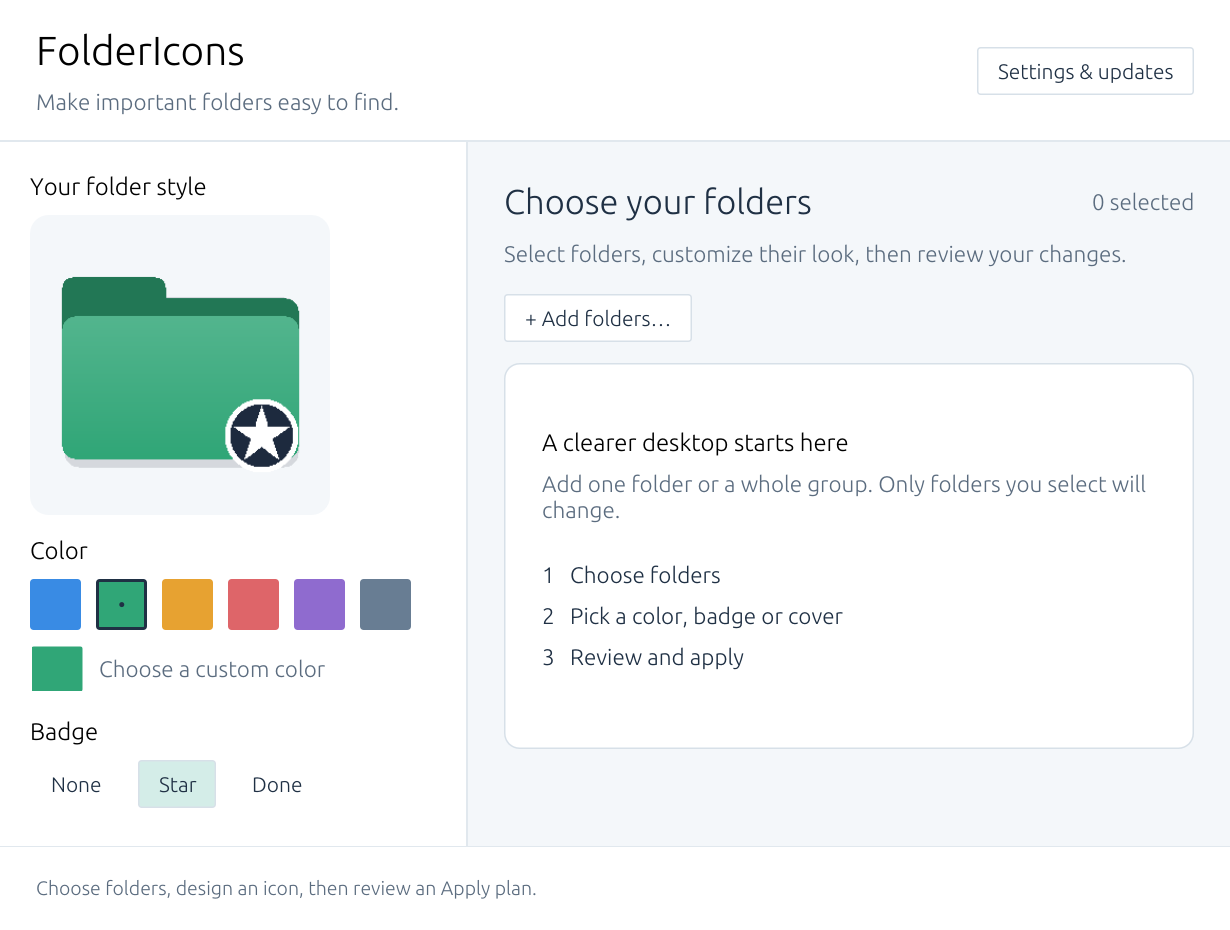
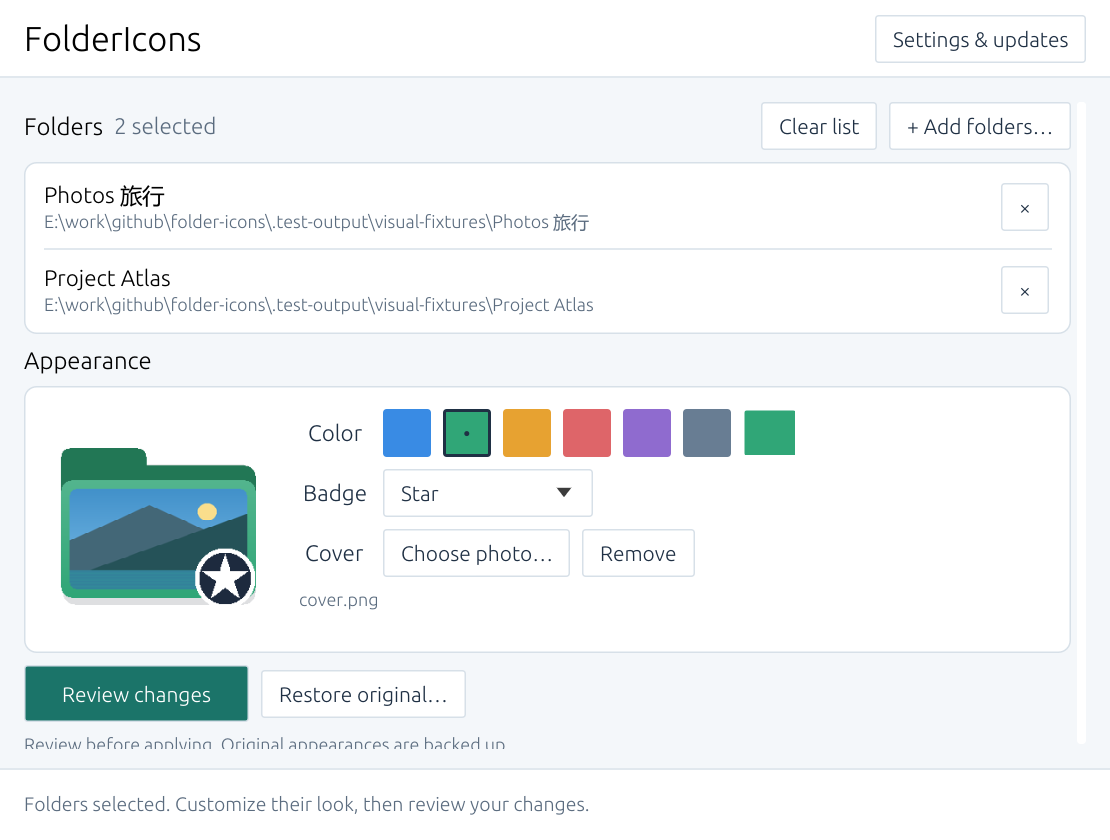
Refresh compact UI screenshots and verification notes

diff --git a/docs/TESTING.md b/docs/TESTING.md
@@ -21,16 +21,16 @@ The initial OpenGL build was reported to cause severe lag. It was replaced by eg
 
 The real host instruments UI/raster frames, GDI presents, their wall time, own-process CPU time, repaint causes and non-sensitive input-event counts. Diagnostics use the optimized application, isolated fixtures, no startup network/settings loading, a 30-second internal limit and a 35-second external limit. They show, hide, restore and exit only the owned test instance. No computer-use tools are required.
 
[2 lines of base64/hex data omitted]
 
 | State | Duration | UI/raster frames | GDI presents | CPU, one logical core |
 | --- | ---: | ---: | ---: | ---: |
 | Visible, settled | 5 s | 0 | 0 | 0.0% at sampling resolution |
-| Hidden | 5 s | 0 | 0 | 0.31% |
-| Restore | 1 s | 1 | 1 | 1.56% |
+| Hidden | 5 s | 0 | 0 | 0.0% at sampling resolution |
+| Restore | 1 s | 1 | 1 | 0.0% at sampling resolution |
 | Return to settled idle | 3 s | 0 | 0 | 0.0% at sampling resolution |
 
-The final restore rasterized in 1.01 ms and presented in 0.50 ms. One incidental pointer-interaction interval used 10.93% of one core (0.55% normalized across 20), with 479 useful frames and 298 input events over five seconds. These are local samples, not universal latency claims. Early apparent idle spikes included real pointer motion/clicks; input-contaminated samples are labeled and repeated. Small finite focus/window invalidations also require a new clean interval. Ongoing frames, sustained CPU load without input, or failure to settle within the budget fails the gate.
+The compact build rendered two startup frames in total. Restore rasterized in 0.68 ms and presented in 0.32 ms. These are local samples, not universal latency claims. Earlier apparent idle spikes included real pointer motion/clicks; input-contaminated samples are labeled and repeated. Small finite focus/window invalidations also require a new clean interval. Ongoing frames, sustained CPU load without input, or failure to settle within the budget fails the gate.
 
 Validation fixed an AccessKit startup panic (adapter must precede window visibility), stale repaint scheduling, unchanged duplicate pointer invalidation, and a shutdown stall caused by setting another wait after `exit`. The repaired bounded diagnostic completed successfully and exited. GPU/driver telemetry and user-perceived smoothness remain unverified. Keyboard, pointer, native dialogs and live folder workflows have not been certified by static captures.
 
@@ -47,7 +47,7 @@ $fixtureRoot = ./scripts/create-visual-fixtures.ps1
 
 The fixture creator refuses to claim unmarked existing directories. It creates disposable folders, a Unicode INI and an original geometric PNG. Capture mode runs the production UI and software renderer for exactly four finite passes, writes PNG/metadata files, and exits. Each child has an external 12-second timeout. It does not use computer use, native dialogs, a desktop screenshot service, normal user settings, network requests, registry registration, the updater or folder mutations. The review scenario reads real plans without executing them.
 
-Main/editor and Settings captures were opened as actual PNG files and inspected. Review corrected clipped settings content, an oversized preview hiding the photo action, duplicate review/apply emphasis and missing CJK glyphs. An 820 × 620 logical viewport at 150% scale was also inspected; the style panel scrolls rather than shrinking text. README images are 1080 × 800 logical/physical pixels at 100% scale. They capture the client surface, not native title bars, Explorer or OS dialogs.
+Main/editor, Settings, empty and confirmation captures were opened as actual PNG files and inspected. The compact follow-up removed the tall header and permanent sidebar, grouped folders into one list, and placed the preview beside appearance controls. Confirmation has its own compact state with exact paths and a Back action. Font sizes and action target sizes were preserved. A 740 × 560 logical viewport at 150% scale was also inspected; content scrolls rather than shrinking text. README images are 780 × 590 logical/physical pixels at 100% scale. They capture the client surface, not native title bars, Explorer or OS dialogs.
 
 PNG and JSON files in `docs/screenshots` are real application output. Metadata records scenario, renderer and scale. CI creates isolated fixtures and captures these production screens without opening native windows.
 

diff --git a/README.md b/README.md
@@ -20,7 +20,7 @@ An independent Windows desktop tool for original folder colors, badges and photo
 
 Windows 10/11 x64 is the implementation target. The UI uses **CPU software rasterization and Windows GDI presentation**, with an event loop that waits when idle. No OpenGL/DirectX renderer, runtime model, AI API, WebView or external theme assets are needed. Windows desktop composition remains an OS responsibility. Full interactive support and clean-machine deployment are not yet verified. Network access is used only for enabled update checks and user-requested updates.
 
-The light interface uses a consistent type scale, larger controls and one primary action at each step. Technical file details are available in the review; rendering metrics live under Settings → Diagnostics. Windows' installed Microsoft YaHei font is used as a CJK fallback when available; that system font is not redistributed.
+The compact 780 × 590 editor puts selected folders above a horizontal appearance panel, with one primary action at each step. Review replaces the editor temporarily instead of repeating the folder list beside it; **Back** returns to editing. Technical file details are available in the review; rendering metrics live under Settings → Diagnostics. Windows' installed Microsoft YaHei font is used as a CJK fallback when available; that system font is not redistributed.
 
 Build with Rust 1.95+ and the MSVC C++ toolchain/Windows SDK:
 
@@ -67,9 +67,9 @@ The executable directory must be writable. Rollback files `*.exe.previous-VERSIO
 
 These are real client-area PNGs generated by the application's production UI and CPU rasterizer in an isolated render-save-exit mode. They show disposable fixtures, including a generated sample cover. Captures do not exercise native dialogs, title bars or input handling.
 
-![FolderIcons reviewing a photo cover and star badge for two test folders](docs/screenshots/main.png)
+![Compact FolderIcons editor with two test folders, a photo cover and a star badge](docs/screenshots/main.png)
 
-Main editor and review step, 1080 × 800 logical pixels at 100% scale.
+Main editor, 780 × 590 logical pixels at 100% scale. The [review step](docs/screenshots/review.png) shows the exact folders before confirmation.
 
 ![FolderIcons settings with startup update checks and optional Explorer shortcut controls](docs/screenshots/settings.png)
 

diff --git a/docs/ARCHITECTURE.md b/docs/ARCHITECTURE.md
@@ -22,6 +22,8 @@ The host uses `Wait`/`WaitUntil`, discards stale repaint callbacks by egui pass 
 
 There is no tray behavior: this is a folder styling editor, not a background monitor. Close is deferred during file operations or update installation so they can finish. After an exit request, the host returns without setting another wait deadline. This fixes the diagnostic shutdown stall observed during validation. Bounded normal-process diagnostics separately count rasterized frames, retained-buffer presents, input events, CPU time and presentation wall time. See TESTING.md for measured scope and remaining interaction gaps.
 
+The default client viewport is 780 × 590 logical pixels, with a 740 × 560 minimum. Native window creation and capture defaults share the same dimensions. The editor uses a single vertical workflow with an inline preview/form; a nonempty plan selects the confirmation view without duplicating folder-selection UI. Back or Cancel clears the plan and preserves the design and selected folders. Settings is centered and constrained to the viewport.
+
 ## Isolated visual review
 
 `--capture OUTPUT --screen main|settings --scenario empty|populated|review|error` selects a real application screen and executes four finite offscreen passes using the production UI and CPU renderer. Width/height are logical pixels; `--scale` determines physical output size. Populated scenarios require an absolute `--fixture-root` containing disposable folders and optionally `cover.png`. Review reads actual plans without executing them. Capture bypasses normal settings loading, startup checks and background actions, writes the PNG and metadata atomically, and exits. An external 12-second timeout bounds the script invocation.

diff --git a/CHANGELOG.md b/CHANGELOG.md
@@ -15,6 +15,7 @@ FolderIcons introduces a portable Windows folder appearance editor with original
 - Local Windows packaging script, dependency license notices and noninteractive CI.
 - A clearer light editor with larger typography, compact style controls, a single apply action in the review, and readable CJK folder names when the Windows fallback font is available.
 - CPU software rendering with GDI presentation, accessibility support and bounded client-area capture/diagnostic modes.
+- A compact 780 × 590 default window with a single folder list, horizontal appearance controls and a focused confirmation step. Text sizes and primary button sizes are preserved.
 
 ### Fixed during local validation
 
